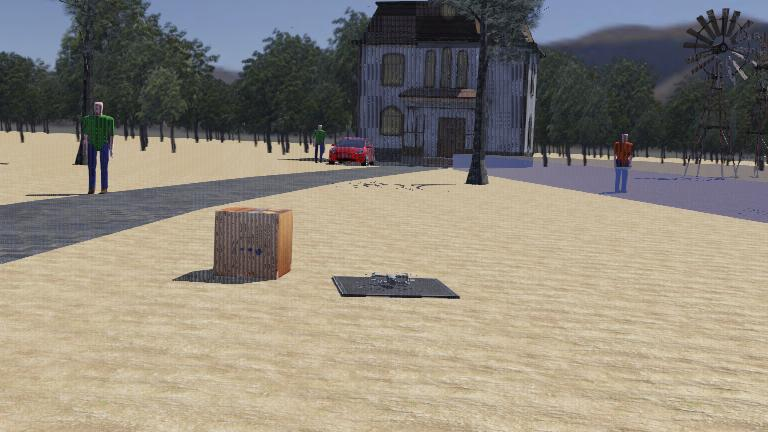
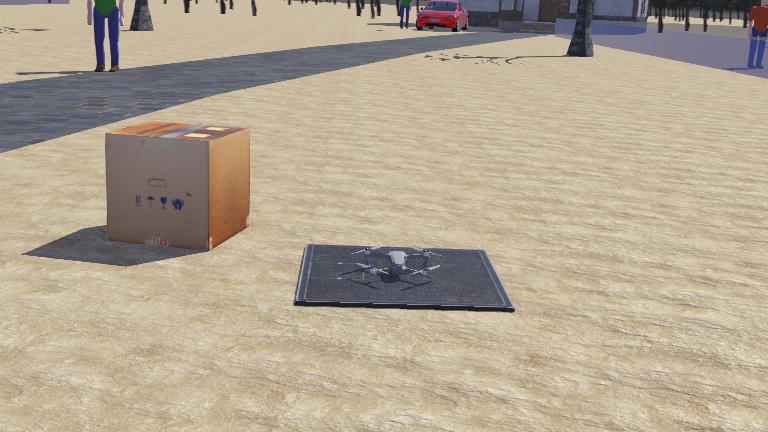
Add continous user detection

diff --git a/frontend/src/components/dashboard/MissionDialog.tsx b/frontend/src/components/dashboard/MissionDialog.tsx
@@ -10,7 +10,10 @@ interface MissionDialogProps {
 	onClose: () => void;
 }
 
-export default function MissionDialog({ mapData, onClose }: MissionDialogProps) {
+export default function MissionDialog({
+	mapData,
+	onClose
+}: MissionDialogProps) {
 	const {
 		slamImgRef,
 		mapDims,
@@ -27,7 +30,7 @@ export default function MissionDialog({ mapData, onClose }: MissionDialogProps) 
 		missionActive,
 		launchMission,
 		stopMission,
-		handleCanvasClick,
+		handleCanvasClick
 	} = mapData;
 
 	const [stripWidth, setStripWidth] = useState(10);
@@ -40,18 +43,21 @@ export default function MissionDialog({ mapData, onClose }: MissionDialogProps) 
 		/* Backdrop */
 		<div
 			className="fixed inset-0 z-50 flex items-center justify-center"
-			style={{ background: 'rgba(0,0,0,0.7)', backdropFilter: 'blur(8px)' }}
-			onClick={(e) => { if (e.target === e.currentTarget) onClose(); }}
+			style={{ background: 'rgba(0,0,0,0.7)' }}
+			onClick={(e) => {
+				if (e.target === e.currentTarget) onClose();
+			}}
 		>
 			{/* Dialog */}
 			<div
-				className="relative flex flex-col rounded-3xl overflow-hidden shadow-2xl"
+				className="relative flex flex-col overflow-hidden rounded-3xl shadow-2xl"
 				style={{
 					width: 'min(900px, 95vw)',
 					maxHeight: '90vh',
 					background: 'rgba(6,10,22,0.95)',
 					border: '1px solid rgba(0,255,136,0.2)',
-					boxShadow: '0 0 60px rgba(0,255,136,0.08), 0 40px 80px rgba(0,0,0,0.8)',
+					boxShadow:
+						'0 0 60px rgba(0,255,136,0.08), 0 40px 80px rgba(0,0,0,0.8)'
 				}}
 			>
 				{/* Header */}
@@ -62,24 +68,34 @@ export default function MissionDialog({ mapData, onClose }: MissionDialogProps) 
 					<div className="flex items-center gap-3">
 						<div
 							className="flex h-8 w-8 items-center justify-center rounded-lg"
-							style={{ background: 'rgba(0,255,136,0.12)', border: '1px solid rgba(0,255,136,0.25)' }}
+							style={{
+								background: 'rgba(0,255,136,0.12)',
+								border: '1px solid rgba(0,255,136,0.25)'
+							}}
 						>
 							<Radar className="h-4 w-4" style={{ color: '#00ff88' }} />
 						</div>
 						<div>
-							<p className="text-[9px] font-bold tracking-[0.3em] uppercase" style={{ color: 'rgba(0,255,136,0.6)' }}>
+							<p
+								className="text-[9px] font-bold tracking-[0.3em] uppercase"
+								style={{ color: 'rgba(0,255,136,0.6)' }}
+							>
 								Mission Control
 							</p>
-							<h2 className="text-base font-semibold text-white leading-tight">
+							<h2 className="text-base leading-tight font-semibold text-white">
 								Search Zone Planning
 							</h2>
 						</div>
 						{missionActive && (
 							<span
 								className="flex items-center gap-1.5 rounded-full px-3 py-1 text-[10px] font-bold uppercase"
-								style={{ background: 'rgba(0,255,136,0.12)', border: '1px solid rgba(0,255,136,0.3)', color: '#00ff88' }}
+								style={{
+									background: 'rgba(0,255,136,0.12)',
+									border: '1px solid rgba(0,255,136,0.3)',
+									color: '#00ff88'
+								}}
 							>
-								<span className="h-1.5 w-1.5 rounded-full bg-emerald-400 animate-pulse" />
+								<span className="h-1.5 w-1.5 animate-pulse rounded-full bg-emerald-400" />
 								Mission Active
 							</span>
 						)}
@@ -87,14 +103,17 @@ export default function MissionDialog({ mapData, onClose }: MissionDialogProps) 
 					<button
 						onClick={onClose}
 						className="flex h-8 w-8 items-center justify-center rounded-lg transition-colors"
-						style={{ background: 'rgba(255,255,255,0.06)', border: '1px solid rgba(255,255,255,0.1)' }}
+						style={{
+							background: 'rgba(255,255,255,0.06)',
+							border: '1px solid rgba(255,255,255,0.1)'
+						}}
 					>
 						<X className="h-4 w-4 text-white/60" />
 					</button>
 				</div>
 
 				{/* Body */}
-				<div className="flex flex-1 min-h-0 overflow-hidden">
+				<div className="flex min-h-0 flex-1 overflow-hidden">
 					{/* Map Canvas */}
 					<div className="relative flex-1 overflow-hidden bg-slate-950">
 						<MapCanvas
@@ -110,12 +129,16 @@ export default function MissionDialog({ mapData, onClose }: MissionDialogProps) 
 							drawingPoly={drawingPoly}
 							supervisorActive={supervisorActive}
 							onClick={handleClick}
-							className="w-full h-full"
+							className="h-full w-full"
 						/>
 						{drawingPoly && (
 							<div
-								className="absolute top-3 left-1/2 -translate-x-1/2 flex items-center gap-2 rounded-full px-4 py-1.5 text-xs font-semibold"
-								style={{ background: 'rgba(245,158,11,0.15)', border: '1px solid rgba(245,158,11,0.4)', color: '#f59e0b' }}
+								className="absolute top-3 left-1/2 flex -translate-x-1/2 items-center gap-2 rounded-full px-4 py-1.5 text-xs font-semibold"
+								style={{
+									background: 'rgba(245,158,11,0.15)',
+									border: '1px solid rgba(245,158,11,0.4)',
+									color: '#f59e0b'
+								}}
 							>
 								<MapPin className="h-3 w-3" />
 								Click to place boundary points · {polyPoints.length} placed
@@ -125,12 +148,15 @@ export default function MissionDialog({ mapData, onClose }: MissionDialogProps) 
 
 					{/* Controls Panel */}
 					<div
-						className="flex w-64 shrink-0 flex-col gap-4 p-5 overflow-y-auto"
+						className="flex w-64 shrink-0 flex-col gap-4 overflow-y-auto p-5"
 						style={{ borderLeft: '1px solid rgba(255,255,255,0.07)' }}
 					>
 						{/* Draw zone */}
 						<div className="flex flex-col gap-2">
-							<p className="text-[9px] font-bold tracking-[0.25em] uppercase" style={{ color: 'rgba(255,255,255,0.35)' }}>
+							<p
+								className="text-[9px] font-bold tracking-[0.25em] uppercase"
+								style={{ color: 'rgba(255,255,255,0.35)' }}
+							>
 								Define Zone
 							</p>
 							<button
@@ -142,8 +168,16 @@ export default function MissionDialog({ mapData, onClose }: MissionDialogProps) 
 								className="flex w-full items-center justify-center gap-2 rounded-xl px-4 py-2.5 text-sm font-semibold transition-all active:scale-95"
 								style={
 									drawingPoly
-										? { background: 'rgba(245,158,11,0.15)', border: '1px solid rgba(245,158,11,0.4)', color: '#f59e0b' }
-										: { background: 'rgba(255,255,255,0.06)', border: '1px solid rgba(255,255,255,0.12)', color: 'rgba(255,255,255,0.8)' }
+										? {
+												background: 'rgba(245,158,11,0.15)',
+												border: '1px solid rgba(245,158,11,0.4)',
+												color: '#f59e0b'
+											}
+										: {
+												background: 'rgba(255,255,255,0.06)',
+												border: '1px solid rgba(255,255,255,0.12)',
+												color: 'rgba(255,255,255,0.8)'
+											}
 								}
 							>
 								<Radar className="h-4 w-4" />
@@ -155,7 +189,11 @@ export default function MissionDialog({ mapData, onClose }: MissionDialogProps) 
 									type="button"
 									onClick={() => setPolyPoints([])}
 									className="flex w-full items-center justify-center gap-2 rounded-xl px-4 py-2 text-xs font-medium transition-all active:scale-95"
-									style={{ background: 'rgba(255,255,255,0.04)', border: '1px solid rgba(255,255,255,0.08)', color: 'rgba(255,255,255,0.5)' }}
+									style={{
+										background: 'rgba(255,255,255,0.04)',
+										border: '1px solid rgba(255,255,255,0.08)',
+										color: 'rgba(255,255,255,0.5)'
+									}}
 								>
 									<RotateCcw className="h-3 w-3" />
 									Clear Points ({polyPoints.length})
@@ -166,18 +204,27 @@ export default function MissionDialog({ mapData, onClose }: MissionDialogProps) 
 						{/* Point list */}
 						{polyPoints.length > 0 && (
 							<div className="flex flex-col gap-1.5">
-								<p className="text-[9px] font-bold tracking-[0.25em] uppercase" style={{ color: 'rgba(255,255,255,0.35)' }}>
+								<p
+									className="text-[9px] font-bold tracking-[0.25em] uppercase"
+									style={{ color: 'rgba(255,255,255,0.35)' }}
+								>
 									Boundary Points
 								</p>
-								<div className="flex flex-col gap-1 max-h-40 overflow-y-auto">
+								<div className="flex max-h-40 flex-col gap-1 overflow-y-auto">
 									{polyPoints.map(([x, y], i) => (
 										<div
 											key={i}
 											className="flex items-center justify-between rounded-lg px-2.5 py-1.5 font-mono text-[10px]"
-											style={{ background: 'rgba(245,158,11,0.08)', border: '1px solid rgba(245,158,11,0.15)', color: 'rgba(245,158,11,0.8)' }}
+											style={{
+												background: 'rgba(245,158,11,0.08)',
+												border: '1px solid rgba(245,158,11,0.15)',
+												color: 'rgba(245,158,11,0.8)'
+											}}
 										>
 											<span className="font-bold">{i + 1}</span>
-											<span>{x.toFixed(1)}m, {y.toFixed(1)}m</span>
+											<span>
+												{x.toFixed(1)}m, {y.toFixed(1)}m
+											</span>
 										</div>
 									))}
 								</div>
@@ -185,15 +232,24 @@ export default function MissionDialog({ mapData, onClose }: MissionDialogProps) 
 						)}
 
 						{/* Separator */}
-						<div className="h-px" style={{ background: 'rgba(255,255,255,0.07)' }} />
+						<div
+							className="h-px"
+							style={{ background: 'rgba(255,255,255,0.07)' }}
+						/>
 
 						{/* Strip Width */}
 						<div className="flex flex-col gap-2">
 							<div className="flex items-center justify-between">
-								<p className="text-[9px] font-bold tracking-[0.25em] uppercase" style={{ color: 'rgba(255,255,255,0.35)' }}>
+								<p
+									className="text-[9px] font-bold tracking-[0.25em] uppercase"
+									style={{ color: 'rgba(255,255,255,0.35)' }}
+								>
 									Strip Width
 								</p>
-								<span className="font-mono text-xs font-bold" style={{ color: '#00ff88' }}>
+								<span
+									className="font-mono text-xs font-bold"
+									style={{ color: '#00ff88' }}
+								>
 									{stripWidth}m
 								</span>
 							</div>
@@ -207,33 +263,47 @@ export default function MissionDialog({ mapData, onClose }: MissionDialogProps) 
 								className="w-full accent-emerald-400"
 								style={{ accentColor: '#00ff88' }}
 							/>
-							<div className="flex justify-between text-[8px] font-mono" style={{ color: 'rgba(255,255,255,0.25)' }}>
+							<div
+								className="flex justify-between font-mono text-[8px]"
+								style={{ color: 'rgba(255,255,255,0.25)' }}
+							>
 								<span>5m (dense)</span>
 								<span>20m (sparse)</span>
 							</div>
 						</div>
 
 						{/* Separator */}
-						<div className="h-px" style={{ background: 'rgba(255,255,255,0.07)' }} />
+						<div
+							className="h-px"
+							style={{ background: 'rgba(255,255,255,0.07)' }}
+						/>
 
 						{/* Launch */}
 						<div className="flex flex-col gap-2">
-							<p className="text-[9px] font-bold tracking-[0.25em] uppercase" style={{ color: 'rgba(255,255,255,0.35)' }}>
+							<p
+								className="text-[9px] font-bold tracking-[0.25em] uppercase"
+								style={{ color: 'rgba(255,255,255,0.35)' }}
+							>
 								Mission
 							</p>
 							<button
 								type="button"
 								onClick={() => launchMission({ stripWidth })}
 								disabled={polyPoints.length < 3 || missionActive}
-								className="flex w-full items-center justify-center gap-2 rounded-xl px-4 py-3 text-sm font-bold transition-all active:scale-95 disabled:opacity-40 disabled:cursor-not-allowed"
+								className="flex w-full items-center justify-center gap-2 rounded-xl px-4 py-3 text-sm font-bold transition-all active:scale-95 disabled:cursor-not-allowed disabled:opacity-40"
 								style={{
-									background: polyPoints.length >= 3 && !missionActive
-										? 'linear-gradient(135deg, rgba(0,255,136,0.25), rgba(0,180,100,0.15))'
-										: 'rgba(255,255,255,0.04)',
-									border: polyPoints.length >= 3 && !missionActive
-										? '1px solid rgba(0,255,136,0.4)'
-										: '1px solid rgba(255,255,255,0.08)',
-									color: polyPoints.length >= 3 && !missionActive ? '#00ff88' : 'rgba(255,255,255,0.4)',
+									background:
+										polyPoints.length >= 3 && !missionActive
+											? 'linear-gradient(135deg, rgba(0,255,136,0.25), rgba(0,180,100,0.15))'
+											: 'rgba(255,255,255,0.04)',
+									border:
+										polyPoints.length >= 3 && !missionActive
+											? '1px solid rgba(0,255,136,0.4)'
+											: '1px solid rgba(255,255,255,0.08)',
+									color:
+										polyPoints.length >= 3 && !missionActive
+											? '#00ff88'
+											: 'rgba(255,255,255,0.4)'
 								}}
 							>
 								<Play className="h-4 w-4" />
@@ -244,7 +314,11 @@ export default function MissionDialog({ mapData, onClose }: MissionDialogProps) 
 								type="button"
 								onClick={stopMission}
 								className="flex w-full items-center justify-center gap-2 rounded-xl px-4 py-2.5 text-sm font-semibold transition-all active:scale-95"
-								style={{ background: 'rgba(239,68,68,0.1)', border: '1px solid rgba(239,68,68,0.25)', color: '#ef4444' }}
+								style={{
+									background: 'rgba(239,68,68,0.1)',
+									border: '1px solid rgba(239,68,68,0.25)',
+									color: '#ef4444'
+								}}
 							>
 								<Ban className="h-4 w-4" />
 								Abort / Hover
@@ -252,18 +326,31 @@ export default function MissionDialog({ mapData, onClose }: MissionDialogProps) 
 						</div>
 
 						{/* Legend */}
-						<div className="mt-auto flex flex-col gap-1.5 pt-2" style={{ borderTop: '1px solid rgba(255,255,255,0.07)' }}>
-							<p className="text-[9px] font-bold tracking-[0.25em] uppercase mb-1" style={{ color: 'rgba(255,255,255,0.3)' }}>
+						<div
+							className="mt-auto flex flex-col gap-1.5 pt-2"
+							style={{ borderTop: '1px solid rgba(255,255,255,0.07)' }}
+						>
+							<p
+								className="mb-1 text-[9px] font-bold tracking-[0.25em] uppercase"
+								style={{ color: 'rgba(255,255,255,0.3)' }}
+							>
 								Legend
 							</p>
 							{[
 								{ color: '#00a0ff', label: 'Drone Position' },
 								{ color: '#00ff88', label: 'Waypath' },
 								{ color: '#ef4444', label: 'Detection' },
-								{ color: '#f59e0b', label: 'Drawing Poly' },
+								{ color: '#f59e0b', label: 'Drawing Poly' }
 							].map(({ color, label }) => (
-								<div key={label} className="flex items-center gap-2 text-[10px]" style={{ color: 'rgba(255,255,255,0.45)' }}>
-									<span className="h-2 w-2 rounded-full shrink-0" style={{ background: color }} />
+								<div
+									key={label}
+									className="flex items-center gap-2 text-[10px]"
+									style={{ color: 'rgba(255,255,255,0.45)' }}
+								>
+									<span
+										className="h-2 w-2 shrink-0 rounded-full"
+										style={{ background: color }}
+									/>
 									{label}
 								</div>
 							))}

diff --git a/backend/app/routers/ws_controller.py b/backend/app/routers/ws_controller.py
@@ -193,14 +193,16 @@ async def _handle_camera(payload: dict) -> None:
     except Exception:
         return
 
+    async with state.lock:
+        telem = dict(state.telemetry)
+
+    drone_z = telem.get("z", 0.0)
     is_searching = (
         flight.autonomous_mode
         and flight.active_flight_path
-        and 0 < flight.current_waypoint_idx < len(flight.active_flight_path)
+        and flight.current_waypoint_idx < len(flight.active_flight_path)
+        and drone_z > 1.0
     )
-
-    async with state.lock:
-        telem = dict(state.telemetry)
 
     # Run YOLO (throttled to 5 fps inside process_frame)
     frame, geo_dets = await process_frame(frame, telem, is_searching)